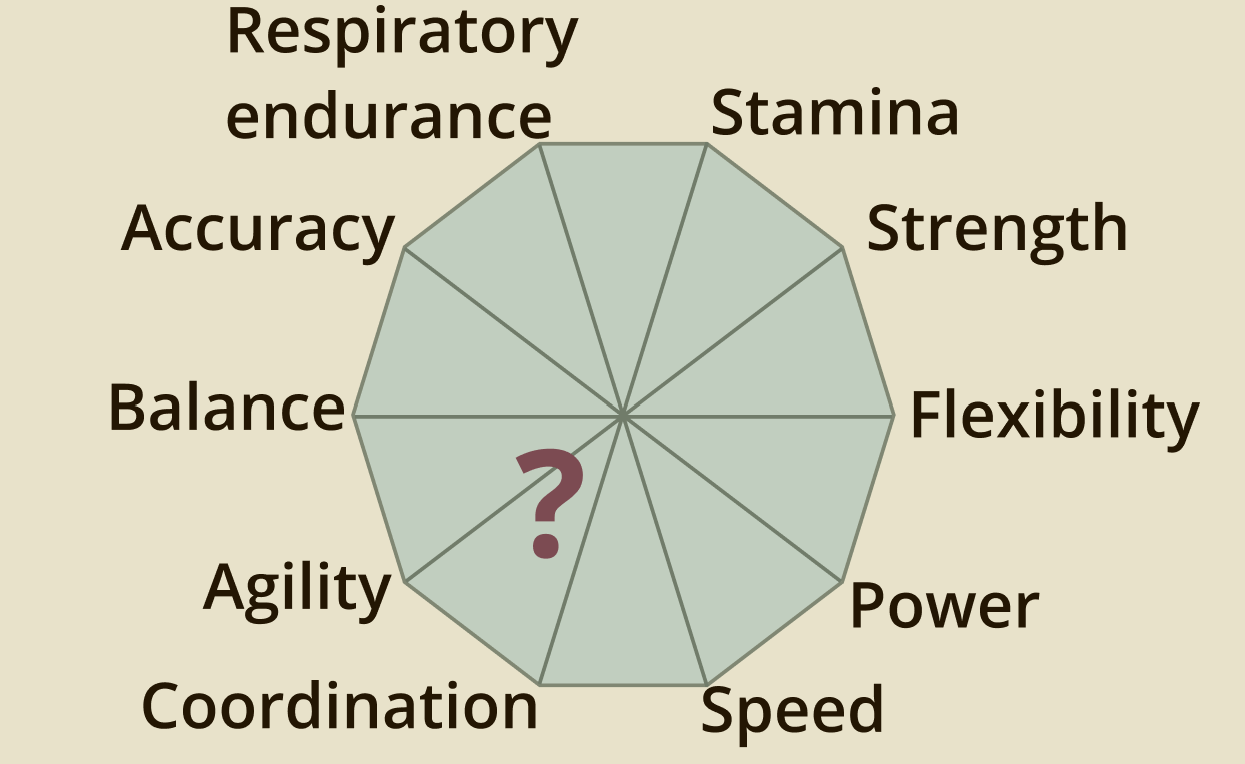
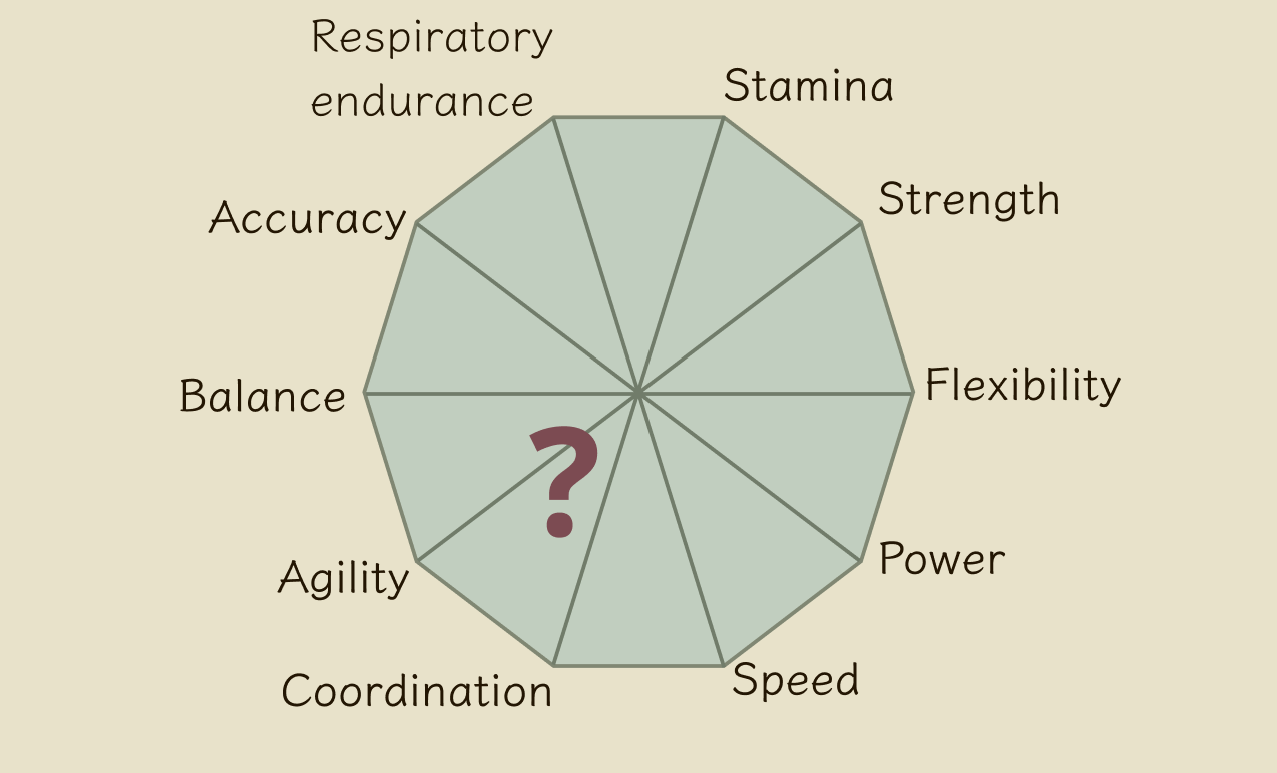
Added locked screen to decagon image

Changed region(s): [[0.0916, 0.0903, 0.9767, 0.9935], [0.1831, 0.0, 0.4578, 0.0903]]

diff --git a/lib/main.dart b/lib/main.dart
@@ -146,7 +146,7 @@ class _WeaknessWorkAppState extends State<WeaknessWorkApp> {
                   onPressed: () async {
                     int result = await Navigator.push(
                       context,
-                      MaterialPageRoute(builder: (context) => MovementSelectionPage()),
+                      MaterialPageRoute(builder: (context) => WeaknessAssessmentPage()),
                     );
                     if (result != null) {
                       setState(() {
@@ -330,7 +330,7 @@ class _WarmupState extends State<Warmup> {
   }
 }
 
-class MovementSelectionPage extends StatelessWidget {
+class WeaknessAssessmentPage extends StatelessWidget {
   @override
   Widget build(BuildContext context) {
     final List<String> imageNames = [
@@ -345,7 +345,6 @@ class MovementSelectionPage extends StatelessWidget {
       'medicineballclean.jpg',
     ];
 
-    // Add this list of movement names
     final List<String> movementNames = [
       'Air Squat',
       'Front Squat',
@@ -401,12 +400,11 @@ class MovementSelectionPage extends StatelessWidget {
             // Movements view
             Padding(
               padding: const EdgeInsets.all(8.0),
-              child: SingleChildScrollView( // Add this line
+              child: SingleChildScrollView(
                 child: Column(
                   crossAxisAlignment: CrossAxisAlignment.stretch,
                   mainAxisSize: MainAxisSize.min,
                   children: [
-                    // Add the title
                     Padding(
                       padding: const EdgeInsets.only(bottom: 8.0),
                       child: Text(
@@ -415,7 +413,6 @@ class MovementSelectionPage extends StatelessWidget {
                         style: TextStyle(fontSize: 16.0, fontWeight: FontWeight.w600),
                       ),
                     ),
-                    // Use a Column for the GridView.builder
                     Column(
                       children: [
                         GridView.builder(
@@ -437,7 +434,6 @@ class MovementSelectionPage extends StatelessWidget {
                                 onTap: disabled
                                     ? null
                                     : () {
-                                  // Pass the selected movement index to the previous screen
                                   Navigator.pop(context, index);
                                 },
                                 child: Column(
@@ -452,16 +448,20 @@ class MovementSelectionPage extends StatelessWidget {
                                               alignment: Alignment.center,
                                               child: Image.asset('images/${imageNames[index]}', fit: BoxFit.scaleDown),
                                             ),
-                                            // Add the grey overlay
                                             if (disabled)
                                               Container(
                                                 color: Color.fromRGBO(128, 128, 128, 0.5), // semi-transparent grey color
+                                              ),
+                                            if (disabled)
+                                              Icon(
+                                                Icons.lock,
+                                                size: 24.0,
+                                                color: Colors.white,
                                               ),
                                           ],
                                         ),
                                       ),
                                     ),
-                                    // Add the movement name below the square
                                     Padding(
                                       padding: const EdgeInsets.only(top: 1.0),
                                       child: Text(
@@ -478,17 +478,14 @@ class MovementSelectionPage extends StatelessWidget {
                         ),
                       ],
                     ),
-                    // Add a transparent SizedBox for spacing
                     SizedBox(
                       height: 8.0,
                     ),
-                    // Add the '¥100' button to the Movements page
                     Padding(
                       padding: const EdgeInsets.only(top: 8.0),
                       child: Center(
                         child: InkWell(
                           onTap: () {
-                            // Add your action here
                           },
                           child: Chip(
                             elevation: 10.0,
@@ -498,6 +495,9 @@ class MovementSelectionPage extends StatelessWidget {
                                 fontSize: 16,
                                 color: Colors.black,
                               ),
+                            ),
+                            avatar: InkWell(
+                              child: Icon(Icons.key),
                             ),
                             backgroundColor: Color(0xFFD2DCEA),
                             padding: EdgeInsets.all(4.0),
@@ -512,8 +512,6 @@ class MovementSelectionPage extends StatelessWidget {
                 ),
               ),
             ),
-
-
             // Domains view
             Padding(
               padding: const EdgeInsets.all(8.0),
@@ -528,14 +526,28 @@ class MovementSelectionPage extends StatelessWidget {
                       style: TextStyle(fontSize: 16.0, fontWeight: FontWeight.w600),
                     ),
                   ),
-                  // Add vertical space between title and image
                   SizedBox(height: 16.0),
-                  Container(
-                    child: Image.asset('images/decagon.png', fit: BoxFit.scaleDown),
+                  Stack(
+                    children: [
+                      ColorFiltered(
+                        colorFilter: ColorFilter.mode(
+                          Color.fromRGBO(128, 128, 128, 0.5), // semi-transparent grey color
+                          BlendMode.modulate, // Use BlendMode.modulate instead
+                        ),
+                        child: Image.asset('images/decagon.png', fit: BoxFit.scaleDown),
+                      ),
+                      Positioned(
+                        top: 4.0,
+                        left: 4.0,
+                        child: Icon(
+                          Icons.lock,
+                          size: 24.0,
+                          color: Colors.white,
+                        ),
+                      ),
+                    ],
                   ),
-                  // Add vertical space between image and button
                   SizedBox(height: 24.0),
-                  // Call to action button
                   InkWell(
                     onTap: () {
                       // Add your action here
@@ -548,6 +560,9 @@ class MovementSelectionPage extends StatelessWidget {
                           fontSize: 16,
                           color: Colors.black,
                         ),
+                      ),
+                      avatar: InkWell(
+                        child: Icon(Icons.key),
                       ),
                       backgroundColor: Color(0xFFD2DCEA),
                       padding: EdgeInsets.all(4.0),
